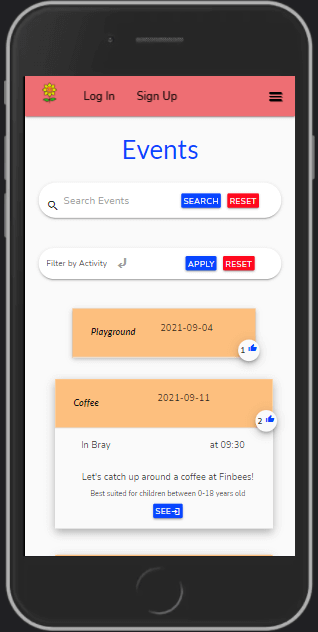
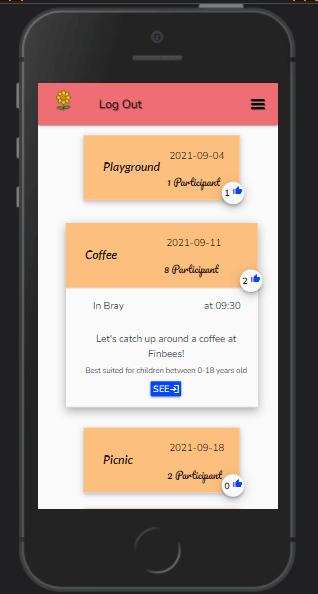
Update feature picture in feature.md

diff --git a/app/templates/profile.html b/app/templates/profile.html
@@ -132,7 +132,7 @@
                                             <p class="events-card-descriptions">{{ event.event_date }}</p>
                                         </div>
                                         <!-- Participant -->
-                                        <div class="col s12 participant">
+                                        <div class="col s12 participant participant-mobile">
                                             {% if event.event_joined_by != None %}
                                                 <span>{{ event.event_joined_by|length }} Participant</span>
                                             {% else %}
@@ -245,7 +245,7 @@
                                             <p class="events-card-descriptions">{{ event.event_date }}</p>
                                         </div>
                                         <!-- Participant -->
-                                        <div class="col s12 participant">
+                                        <div class="col s12 participant participant-mobile">
                                             {% if event.event_joined_by != None %}
                                                 <span>{{ event.event_joined_by|length }} Participant</span>
                                             {% else %}

diff --git a/app/templates/events.html b/app/templates/events.html
@@ -78,7 +78,7 @@
                                             <p class="events-card-descriptions">{{ event.event_date }}</p>
                                         </div>
                                         <!-- Participant -->
-                                        <div class="col s12 participant">
+                                        <div class="col s12 participant participant-mobile">
                                             {% if event.event_joined_by != None %}
                                                 <span>{{ event.event_joined_by|length }} Participant</span>
                                             {% else %}

diff --git a/app/static/css/style.css b/app/static/css/style.css
@@ -732,10 +732,14 @@ footer {
 }
 
 /* Media query */
-@media(max-width: 280px) {
+@media(max-width: 300px) {
     .collapsible-header,
     .collapsible-body {
         padding: .6rem .2rem;
+    }
+
+    .participant-mobile {
+        transform: translateX(-24px);
     }
 }
 
@@ -785,6 +789,10 @@ footer {
 
     .home-card-txt {
         font-size: 1rem;
+    }
+
+    .collapsible-header {
+        
     }
 
     /* buttons */

diff --git a/FEATURES.md b/FEATURES.md
@@ -59,7 +59,7 @@ This page present the user with all the events available to attend in the future
 It is presented as collapsible that toggle more information when clicked on.  
 A sorting option is available for the user to be able to look for specific activities, ages etc.  
 Buttons offer the possibility to see an event and then depending on user and event information to join, cancel, edit or leave an event.  
-As well a participant count is shown to provide information about how busy and/or popular the event is.
+As well a participant count and likes is shown to provide information about how busy and/or popular the event is.
 
 ![Feature events](app/static/images/README-images/features/feature-events.png)
 
